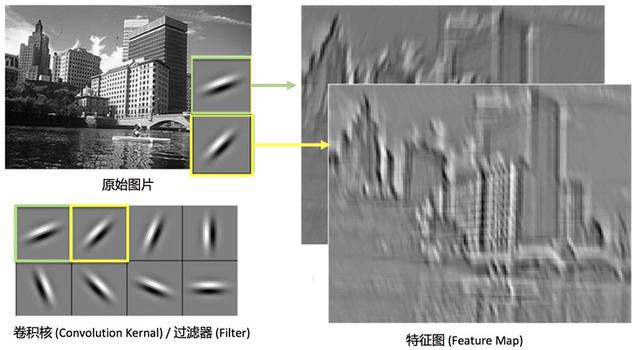
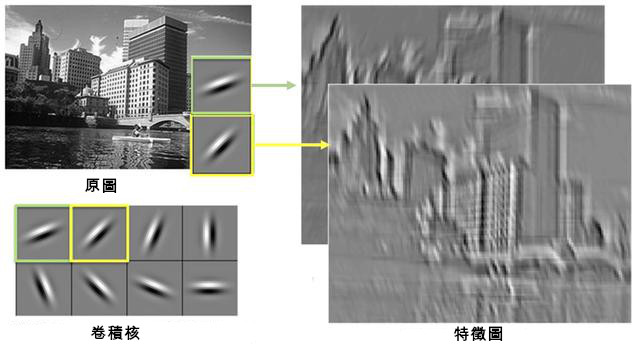
update feature map intro

diff --git a/index_en.html b/index_en.html
@@ -28,10 +28,10 @@
       </div>
     </nav> -->
     <nav class="navbar navbar-inverse fixed-top bg-inverse navbar-expand-md">
-      <a class="navbar-brand" href="./index.html">CNN Visualization</a>
-      <a class="navbar-nav" href="#section1">Introduction</a>
+      <a class="navbar-brand" href="./index.html">cNN Visualization</a>
+      <a class="navbar-nav" href="#section1">Intro</a>
       <a class="navbar-nav" href="#section2">Demo</a>
-      <a class="navbar-nav" href="./index.html">中文版</a>
+      <a class="navbar-nav" href="./index_en.html">中文版</a>
     </nav>
 
     <header class="image-bg-header mt-5">
@@ -40,8 +40,8 @@
         <div class="header-text mx-auto my-auto">
           <h2>CNN Visualization</h2><br/>
           <p>
-            Convolutional Neural Network(or CNN), is a popular deep learning architechture in recent years<br/>
-            This website provides a simple introduction to CNN, and uses multiple visualization methods to demostrate the usage of CCNN
+            Convolutional Neural Network (CNN), is a popular architechture in machine learning.<br/>
+            This website provides a simple introduction to CNN, and uses multiple visualization techniques for viewers to understand its structure.
           </p>
         </div>
         <div></div>
@@ -59,53 +59,73 @@
           <li data-target="#intro-carousel" data-slide-to="1"></li>
           <li data-target="#intro-carousel" data-slide-to="2"></li>
           <li data-target="#intro-carousel" data-slide-to="3"></li>
+          <li data-target="#intro-carousel" data-slide-to="4"></li>
           <!-- <li data-target="#intro-carousel" data-slide-to="2"></li> -->
         </ol>
         <div class="carousel-inner">
           <div class="row justify-content-center carousel-item active">
-            <div class="col-12 col-lg-5 image-block">
-                <img src="images/AI_Intro.png"/>
-            </div>
-            <div class="col-12 col-lg-5 description-block">
-                <h5 class="card-title">1.AI and deep learning</h5>
-                <p>Before understanding CNN, we should better know the difference of three popular words: artificial intelligence, machine learning and deep learning</p>
-                <p>Artificial Intelligence：<br/>AI is the widest topic among the three. It is used to describe machines (or computers) that mimic "cognitive" functions that humans associate with the human mind, such as "learning" and "problem solving".</p>
-                <p>Machine Learning：<br/>Machine Learning is a subset of Artificial Intelligence. Machine learning algorithms build a mathematical model based on sample data, known as "training data", in order to make predictions or decisions without being explicitly programmed to perform the task.</p>
-                <p>Deep Learning：<br/>Deep Learning is a subset of machine learning, which uses more complex(deep) models to learn complex pattern from input data.</p>
-                <p>Neural Network(NN) and Convolutional Neural Network(CNN) are both popular architechtures in deep learning.</p>
-            </div>
-          </div>
-          <div class="row justify-content-center carousel-item">
-            <div class="col-12 col-lg-5 image-block">
-                <img src="images/NN.jpg"/>
-            </div>
-            <div class="col-12 col-lg-5 description-block">
-                <h5 class="card-title">類神經網路</h5>
-                <p>類神經網路（Neural Network，NN）在機器學習和認知科學領域，是一種模仿生物神經網路結構的數學模型或計算模型。</p>
-                <p>類神經網路（Neural Network，NN）在機器學習和認知科學領域，是一種模仿生物神經網路結構的數學模型或計算模型。</p>
-            </div>
-          </div>
-          <div class="row justify-content-center carousel-item">
-            <div class="col-12 col-lg-5 image-block">
+            <div class="col-12 col-lg-4 image-block">
                 <img src="images/vgg19.jpeg"/>
             </div>
-            <div class="col-12 col-lg-5 description-block">
-                <h5 class="card-title">卷積神經網路</h5>
-                <p>Visualize feature/activation maps generated by a CNN model through its learning process.</p>
+            <div class="col-12 col-lg-6 description-block">
+                <h5 class="card-title">1. Basic Concept</h5>
+                <p>In recent days, CNN has played an important role in the field of machine learning, since it has outperformed other neural network in many computer vision tasks.</p>
+                <p>Traditional neural network lacks the ability to learn spatial information in an image. In addition, the dimension of an image is relatively high, so it needs to learn a huge number of parameters and makes its learning process more difficult.</p>
+                <p>In the other hand, CNN uses the concept of "convolution", whcih enables CNN to learn local features inside an image, and combine local features into more complex features through multiple layers of convolution. Convolution also requires less parameters and makes the learning easier.</p>
+                <p>In the following sections, we will use a popular architechture, VGG 19, to explain the basic components of a convolutional neural network: convolution layer, pooling layer and fully connected layer</p>
             </div>
           </div>
           <div class="row justify-content-center carousel-item">
-            <div class="col-12 col-lg-5 image-block">
+            <div class="col-12 col-lg-4 image-block">
+                <img src="images/conv_layer2.gif"/>
+            </div>
+            <div class="col-12 col-lg-6 description-block">
+                <h5 class="card-title">2. Convolutional Layer</h5>
+                <p>Convolutional Layer is the place to execute the convolution operation, and also the most important type of layer in a CNN.</p>
+                <p>A convolutional layer is often formed by many filters, taking the first convolutional layer in VGG19 as an example, it is formed by 64 filters with 3x3 size. These filters will do conolution on each 3x3 area in the input image and output a feature map.</p>
+                <p>什麼是特徵圖呢？每一個卷積核在與輸入的圖片做完卷積運算後，所產生的圖片就是特徵圖。特徵裡的每個值都可以視為某種特徵出現的程度。如果特徵圖裡面的值越大，就代表在原本圖片中對應的位置，出現的特徵越符合卷積核的特徵。</p>
+                <p>要注意的是，因為卷積的運算實際上會讓圖片縮小（舉例來說，3x3的卷積會讓圖片的長跟寬都減少2），所以一般為了維持圖片的大小，在進行卷積前會補零。（還有其他參數例如stride）</p>
+                <p>經過前面的卷積層所產生的特徵圖，會再繼續被送進後面的卷積層做運算，而越後面的卷積層，因為看到了前面小範圍的特徵，就可以學到範圍更大、也更複雜的特徵。藉由這種方法來學習複雜的特徵規律，就是卷積神經網路的特色。</p>
+            </div>
+          </div>
+          <div class="row justify-content-center carousel-item">
+            <div class="col-12 col-lg-4 image-block">
+                <img src="images/pooling.jpeg"/>
+            </div>
+            <div class="col-12 col-lg-6 description-block">
+                <h5 class="card-title">3. Pooling Layer</h5>
+                <p>Pooling layers are often put after the convolutional layers. The main usage of pooling layers is to compress the size of feature maps and preserve the most important information.</p>
+                <p>In Vgg19, 2x2 max pooling layers are used and put after each "block" of convolutional layers.</p>
+                <p>2x2 max pooling preserves the largest value in each 2x2 area of the input feature. This operation preserves the most significant feature locally, and reduces the size of the feature map.</p>
+                <p>Besides max pooling, there are also other pooling methods like average pooling.</p>
+                <p>Although pooling layer has no direct contribution to the accuracy of the CNN, but it help CNN to reduce its size and be trained more effeciently.</p>
+            </div>
+          </div>
+          <div class="row justify-content-center carousel-item">
+            <div class="col-12 col-lg-4 image-block">
+                <img src="images/vgg19.jpeg"/>
+            </div>
+            <div class="col-12 col-lg-6 description-block">
+                <h5 class="card-title">4. Fully Connected Layer</h5>
+                <p>Fully connected layer often appears in the last part of a CNN, and its structure is very similar with traditional neural networks.</p>
+                <p>After multiple layers of convolution and pooling, </p>
+                <p>以VGG19為例，原本輸入的圖片在經過多次捲積以及池化的操作之後，最後會產生出長跟寬都是1的特徵圖（1x1x512）。而背後的意思就是在經過多層的卷積之後，卷積神經網路已經辨認出了512個涵蓋了整張圖片的特徵。這512個特徵不再需要空間的資訊，所以可以當成一個向量，並利用基礎的類神經網路架構，也就是全連接層，來進行最後的預測。</p>
+                <p>全連接層實際的運算相當單純，就是把輸入的向量與卷積神經網路的權重值進行矩陣乘法運算。最後再通過softmax函數，運算的結果就可以拿來做最後的預測。</p>
+                <p>另外值得一題的是，如果我們想把原本訓練好的模型拿去不同的任務使用，一般來說我們不需要重新訓練整個卷積神經網路，因為前面的卷積核所學到的特徵很可能還是有用，只是需要不同的組合方法。所以只需要重新訓練最後面的一兩層卷積層跟全連接層的部分，通常就可以有不錯的結果。</p>
+            </div>
+          </div>
+          <div class="row justify-content-center carousel-item">
+            <div class="col-12 col-lg-4 image-block">
                 <img src="images/AI_Logo.gif"/>
             </div>
-            <div class="col-12 col-lg-5 description-block">
-                <h5 class="card-title">了解更多</h5>
-                <p>想更深入了解卷積神經網路、或其他深度學習技術的話，可以參考下列網址：</p>
-                <a target="_blank" href="https://www.youtube.com/watch?v=nQvpFSMPhr0&list=PLXVfgk9fNX2I7tB6oIINGBmW50rrmFTqf">林軒田 - 機器學習基石</a><br/>
-                <a target="_blank" href="https://www.youtube.com/watch?v=A-GxGCCAIrg&list=PLXVfgk9fNX2IQOYPmqjqWsNUFl2kpk1U2">林軒田 - 機器學習技法</a><br/>
-                <a target="_blank" href="https://www.youtube.com/watch?v=CXgbekl66jc&list=PLJV_el3uVTsPy9oCRY30oBPNLCo89yu49">李宏毅 - Machine Learning</a><br/>
-                <a target="_blank" href="https://www.youtube.com/watch?v=jqLidqLZbA8&list=PLS0SUwlYe8cyFuMXAXIB1f5-BggwpVGG_">吳尚鴻 - 深度學習</a><br/>
-                <a target="_blank" href="http://cs231n.stanford.edu/">史丹佛大學 - CS231n</a>
+            <div class="col-12 col-lg-6 description-block">
+                <h5 class="card-title">5. Further Study</h5>
+                <p>For further study in machine learning/deep learning, visit following links:</p>
+                <a target="_blank" href="https://www.youtube.com/watch?v=nQvpFSMPhr0&list=PLXVfgk9fNX2I7tB6oIINGBmW50rrmFTqf">Prof. Lin - Foundation of Machine Learning</a><br/>
+                <a target="_blank" href="https://www.youtube.com/watch?v=A-GxGCCAIrg&list=PLXVfgk9fNX2IQOYPmqjqWsNUFl2kpk1U2">Prof. Lin - Techniques of Machine Learning</a><br/>
+                <a target="_blank" href="https://www.youtube.com/watch?v=CXgbekl66jc&list=PLJV_el3uVTsPy9oCRY30oBPNLCo89yu49">Prof. Lee - Machine Learning</a><br/>
+                <a target="_blank" href="https://www.youtube.com/watch?v=jqLidqLZbA8&list=PLS0SUwlYe8cyFuMXAXIB1f5-BggwpVGG_">Prof. Wu - Deep Learning</a><br/>
+                <a target="_blank" href="http://cs231n.stanford.edu/">Stanford University - CS231n</a>
             </div>
           </div>
         </div>
@@ -126,56 +146,56 @@
         <hr>
       </div>
       <div class="row">
-        <div class="col-12 col-lg-4">
-          <div class="card" style="width: 20rem;">
-            <img class="card-img-top img-fluid" src="./images/StarryNight.jpg" alt="Card image cap">
-            <div class="card-block">
+        <div class="col-9 col-lg-3">
+          <div class="card my-card">
+            <img class="card-img-top img-fluid" src="./images/demo1.png" alt="Card image cap">
+            <div class="card-block d-flex flex-column">
               <h5 class="card-title">Style Transfer</h5>
-              <p class="card-text">Use CNN to combine the content and style from two different images.</p>
-              <a href="./method1.html" class="btn btn-primary">Demo »</a>
+              <p class="card-text">Combine the content and the style from two different images</p>
+              <a href="./method1.html" class="btn btn-primary mt-auto">Demo »</a>
             </div>
           </div>
         </div>
-        <div class="col-12 col-lg-4">
-          <div class="card" style="width: 20rem;">
-            <img class="card-img-top img-fluid" src="./images/feature_map_mnist.png" alt="Card image cap">
-            <div class="card-block">
+        <div class="col-9 col-lg-3">
+          <div class="card my-card">x
+            <img class="card-img-top img-fluid" src="./images/demo2.png" alt="Card image cap">
+            <div class="card-block d-flex flex-column">
               <h5 class="card-title">Feature Map</h5>
-              <p class="card-text">Visualize feature maps generated by a CNN model through its learning process.</p>
-              <a href="./method2.html" class="btn btn-primary">Demo »</a>
+              <p class="card-text">Understanding the structure and the process of learning through visualizing feature map</p>
+              <a href="./method2.html" class="btn btn-primary mt-auto">Demo »</a>
             </div>
           </div>
         </div>
-        <div class="col-12 col-lg-4">
-          <div class="card" style="width: 20rem;">
+        <div class="col-9 col-lg-3">
+          <div class="card my-card">
+            <img class="card-img-top img-fluid" src="./images/demo3.png" alt="Card image cap">
+            <div class="card-block d-flex flex-column">
+              <h5 class="card-title">Deconvolution</h5>
+              <p class="card-text">By deconvolution, we can see the pattern learned by CNN</p>
+              <a href="./method3.html" class="btn btn-primary mt-auto">Demo »</a>
+            </div>
+          </div>
+        </div>
+        <div class="col-9 col-lg-3">
+          <div class="card my-card">
+            <img class="card-img-top img-fluid" src="./images/demo4.png" alt="Card image cap">
+            <div class="card-block d-flex flex-column">
+              <h5 class="card-title">Guided Backpropogation</h5>
+              <p class="card-text"></p>
+              <a href="./method4.html" class="btn btn-primary mt-auto">Demo »</a>
+            </div>
+          </div>
+        </div>
+        <!-- <div class="col-12 col-lg-4"> -->
+          <!-- <div class="card" style="width: 20rem;">
             <img class="card-img-top img-fluid" src="./images/deconv.png" alt="Card image cap">
             <div class="card-block">
-              <h5 class="card-title">Deconvolution</h5>
+              <h5 class="card-title">(Occlusion)</h5>
               <p class="card-text">Use deconvolution to visualize the pattern which the model focused on.</p>
-              <a href="./method3.html" class="btn btn-primary">Demo »</a>
+              <a href="./method5.html" class="btn btn-primary">Demo »</a>
             </div>
-          </div>
-        </div>
-        <div class="col-12 col-lg-4">
-          <div class="card" style="width: 20rem;">
-            <img class="card-img-top img-fluid" src="./images/deconv.png" alt="Card image cap">
-            <div class="card-block">
-              <h5 class="card-title">Deconvolution</h5>
-              <p class="card-text">Use deconvolution to visualize the pattern which the model focused on.</p>
-              <a href="./method3.html" class="btn btn-primary">Demo »</a>
-            </div>
-          </div>
-        </div>
-        <div class="col-12 col-lg-4">
-          <div class="card" style="width: 20rem;">
-            <img class="card-img-top img-fluid" src="./images/deconv.png" alt="Card image cap">
-            <div class="card-block">
-              <h5 class="card-title">Deconvolution</h5>
-              <p class="card-text">Use deconvolution to visualize the pattern which the model focused on.</p>
-              <a href="./method3.html" class="btn btn-primary">Demo »</a>
-            </div>
-          </div>
-        </div>
+          </div> -->
+        <!-- </div> -->
       </div>
         
       <!-- START THE FEATURETTES -->

diff --git a/method1.html b/method1.html
@@ -74,7 +74,7 @@
 
     <div class="d-flex flex-column justify-content-between demo-intro">
       <h3>說明</h3>
-      <div id="method1-carousel" class="carousel slide flex-grow-1" data-ride="carousel" style="padding-bottom: 3rem;">
+      <div id="method1-carousel" class="carousel slide flex-grow-1" data-ride="carousel" style="padding-bottom: 3rem;" data-interval="false">
         <ol class="carousel-indicators">
           <li data-target="#method1-carousel" data-slide-to="0" class="active"></li>
           <li data-target="#method1-carousel" data-slide-to="1"></li>
@@ -86,8 +86,9 @@
             <div class="col-10 justify-content-center" style="text-align: left;">
                 <h5>1. 風格轉換簡介</h5>
                 <p>風格變換的概念，就是把兩張圖片結合在一起，同時保留一張圖片的內容與另一張圖片的風格。這個任務的重點就在於如何找出圖片裡的風格與內容分別是什麼，而這個問題剛好可以用卷積神經網路來解決。</p>
-                <p>假設有一張內容圖Ａ，一張風格圖Ｂ，而我們想要產生一張圖片Ｃ結合Ａ的內容與Ｂ的風格。基本的風格變換的做法，是首先把圖Ｃ設成跟Ａ同一張圖，接著在盡量保留A內容的前提下逐步加入圖Ｂ的風格，進行多次運算後就可以得到一張風格變換後的圖片了。</p>
-                <div class="row justify-content-center" ><img src="images/style_transfer1.png" height="240px"/></div>
+                <div class="row justify-content-center my-4" ><img src="images/style_transfer_01.png" height="240px"/></div>
+                <p>假設有一張內容圖Ａ，一張風格圖Ｂ，而我們想要產生一張圖片Ｃ結合Ａ的內容與Ｂ的風格。基本的風格變換採用迭代的做法，先把圖Ｃ設成跟內容的Ａ同一張圖，接著在盡量保留A內容的前提下逐步加入圖Ｂ的風格，進行多次運算後，就可以得到一張風格變換的圖片。</p>
+                <div class="row justify-content-center my-4" ><img src="images/style_transfer_02.png" height="240px"/></div>
                 <p>我們可以透過卷積神經網路來取得Ａ的內容跟Ｂ的風格。更具體的作法會在後面說明。</p>
             </div>
           </div>
@@ -96,9 +97,8 @@
                 <h5>2. 使用VGG 19提取圖片內容與風格</h5>
                 <p>那麼，要如何用卷積神經網路來取得圖片的內容跟風格呢？一個很簡單卻有效的方法，就是把卷積神經網路中間所產生的特徵圖拿來使用。</p>
                 <p>以VGG19來說，一個常見的設定是把 block5_conv2（第五層的第二個卷積層）的輸出作為圖片的內容，而圖片的風格則會結合 block1_conv1, block2_conv1, block3_conv1, block4_conv1, block5_conv1 （一到五層的第一個卷積層）的輸出來產生。</p>
-                <div class="row justify-content-center" ><img src="images/style_transfer2.png" height="320px"/></div>
-                <p>為什麼會這樣設定呢？如果比較簡單的方法來解釋的話，我們知道卷積神經網路在前面的卷積層裡學到的是一些簡單的特徵（例如特定的線條或形狀），而後面的卷積層則會學到比較複雜的特徵（例如臉或五官）。加上大部分的卷積神經網路在預訓練的時候都是要分辨圖片的內容（例如VGG19就是訓練在ImageNet資料集上的分類任務），所以越後面的層數學捯的東西跟內容會越相關也是很自然的結果。</p>
-                <p>至於為什麼不用最後一層的block5_conv4來作為內容，可能是因為到了最後面的維度已經被壓縮的太小，所以反而會損失一些資訊。例如VGG19的最後一層可能就只會學到ImageNet裡面的1000個分類的內容，如果你的圖片不屬於其中的分類的話可能模型就無法正確的分辨內容。選擇稍微前面一點的特徵圖可以保留多一點資訊，並且跟內容還是有一定的相關性。</p>
+                <div class="row justify-content-center my-4" ><img src="images/style_transfer2.png" height="320px"/></div>
+                <p>為什麼會這樣設定呢？如果比較簡單的方法來解釋的話，我們知道卷積神經網路在前面的卷積層裡學到的是一些簡單的特徵（例如特定的線條或形狀），而後面的卷積層則會學到比較複雜的特徵（例如臉或五官）。加上大部分的卷積神經網路在預訓練的時候都是要分辨圖片的內容（例如VGG19就是訓練在ImageNet資料集上的分類任務），所以越深層的卷積層所學到的東西跟內容會越相關也是很自然的結果。</p>
                 <p>至於風格的部分，其實風格是一個相對很難定義的東西，有時候風格會是小規模的一些筆觸或規律，有時候又會跟圖片整體的配色或構圖有關。所以一般在做風格變換時，會看多個從淺層到深層的特徵圖，來決定圖片的風格。</p>
                 <p>要在保留A圖內容的狀態下加入B圖的風格，我們會透過前面選擇的這些特徵圖來定義兩個損失函數：內容損失函數與風格損失函數，並在風格轉換的過程中試著最小化這個損失函數的輸出，接下來我們會看看如何透過這些特徵圖來定義損失函數。</p>
             </div>
@@ -108,11 +108,11 @@
                 <h5>3. 損失函數與最佳化</h5>
                 <p>這裡說明一下內容損失函數與風格損失函數要怎麼定義。</p>
                 <p>首先是內容損失函數。這部分其實相當簡單，就是兩張特徵圖的平方差的總和再乘以二分之一。公式如下：</p>
-                <div class="row justify-content-center" ><img src="images/content_loss.png" height="40px"/></div>
+                <div class="row justify-content-center my-4" ><img src="images/content_loss.png" height="40px"/></div>
                 <p>接著是風格損失函數的部分，這裡的式子就會稍微複雜一些。為了描述圖片中的風格，這裡使用了一種叫做Gram Matrix的矩陣，簡單的說，每一層卷積層所產生的多個特徵圖，可以透過特徵圖之間兩兩的內積來產生Gram Matrix。在兩兩內積的過程中，比較小的值會變得更小而原本比較大的值會被放大，同時Gram Matrix也保留了不同特徵圖之間的關聯性。從實務上來說，使用Gram Matrix也確實可以有效的找出圖片的風格。</p>
-                <div class="row justify-content-center" ><img src="images/style_loss.png" height="40px"/></div>
+                <div class="row justify-content-center my-4" ><img src="images/style_loss.png" height="40px"/></div>
                 <br/>
-                <div class="row justify-content-center" ><img src="images/style_loss2.png" height="40px"/></div>
+                <div class="row justify-content-center my-4" ><img src="images/style_loss2.png" height="40px"/></div>
                 <p>計算完這兩個損失函數之後，接著就可以透過不斷迭代梯度下降演算法來減低這兩個損失函數的總和，來達到風格轉換的效果了。</p>
             </div>
           </div>
@@ -120,7 +120,11 @@
             <div class="col-10 justify-content-center" style="text-align: left;">
                 <h5>4. 使用AdaIn加速運算</h5>
                 <p>前面介紹了風格轉換最基本的作法。不過這種做法有一個最大的問題，就是在每一張圖進行風格轉換時都需要進行多次迭代的計算，而計算中又有不少矩陣的運算，導致要產生一張圖可能就需要花上一段時間。也因此，在本網站的展示中，我們沒有使用傳統的方式，而是使用另一個名為AdaIn的架構來加速風格轉換的過程。</p>
-                <img src="images/Adain.jpg" height="150px"/>
+                <div class="row justify-content-center my-4" ><img src="images/Adain.jpg" height="150px"/></div>
+                <p>和前面介紹的傳統作法相比，AdaIn主要有兩個不同的地方：</p>
+                <p>第一點是在取得圖片的內容跟風格的部分，比起傳統使用特徵圖來計算損失的方法，AdaIn採用更簡單的方式：直接把特徵圖裡面值的平均當作內容，而變異數當作風格，這樣避免了Gram Matrix的複雜計算，只要在維持平均值的狀態下改動變異數就可以做到風格轉換的效果。</p>
+                <p>而為了更有效率的做到這一點，AdaIn的另一個改動就是除了原本用到的VGG19模型之外，另外多了兩個類神經網路：分別是AdaIn與Decoder。透過這兩個類神經網路，AdaIn能夠讓原本特徵圖的風格（也就是變異數）轉換到另一張圖片，之後藉由Decoder，就可以直接從轉換後的特徵圖生成出一張風格轉換後的圖片。</p>
+                <p>AdaIn最大的好處，就是避免了傳統風格轉換所需要的多次迭代計算，整個過程只要一步就可以完成。雖然多出來的兩個網路需要另外花時間訓練，但一旦訓練好仍可以節省大量運算的時間。</p>
             </div>
           </div>
         </div>

diff --git a/method2.html b/method2.html
@@ -77,20 +77,32 @@
               <div class="col-10" style="text-align: left;">
                   <h5>1. 特徵圖簡介</h5>
                   <p>卷積神經網路在運算的過程中，每經過一次卷積層的運算都會產生出新的特徵圖。</p>
-                  <p>以VGG19為例，一開始輸入的圖片會被縮放到常跟寬都等於224，而且因為有紅藍綠三個顏色的通道，所以總共的維度是224x224x3。</p>
-                  <p>224x224x3的圖片在通過第一層的捲積層後，會變成224x224x64。這是因為第一層的卷積層有64個捲積核，而每個卷積核都會學到一種特徵並輸出一張特徵圖。</p>
+                  <p>以VGG19為例，一開始輸入的圖片會被縮放到常跟寬都等於224，而且因為有紅藍綠三個顏色的通道，所以總共的維度是224x224x3。而這個224x224x3的圖片在通過第一層的捲積層後，維度會變成224x224x64，也就是64張224x224的特徵圖。這是因為第一層的卷積層有64個捲積核，而每個卷積核都會學到一種特徵並輸出一張特徵圖。</p>
                   <p>透過視覺化這些特徵圖，我們可以大致了解到卷積神經網路學習了哪些不同的特徵。</p>
-                  <div class="row justify-content-center" ><img src="images/feature_map.jpg" height="320px"/></div>
+                  <div class="row justify-content-center my-4" ><img src="images/feature_map2.jpg" height="320px"/></div>
               </div>
             </div>
             <div class="row justify-content-center carousel-item flex-grow-1">
               <div class="col-10" style="text-align: left;">
-                  <h5>1. 特徵圖簡介</h5>
-                  <p>卷積神經網路在運算的過程中，每經過一次卷積層的運算都會產生出新的特徵圖。</p>
-                  <p>以VGG19為例，一開始輸入的圖片會被縮放到常跟寬都等於224，而且因為有紅藍綠三個顏色的通道，所以總共的維度是224x224x3。</p>
-                  <p>224x224x3的圖片在通過第一層的捲積層後，會變成224x224x64。這是因為第一層的卷積層有64個捲積核，而每個卷積核都會學到一種特徵並輸出一張特徵圖。</p>
-                  <p>透過視覺化這些特徵圖，我們可以大致了解到卷積神經網路學習了哪些不同的特徵。</p>
-                  <div class="row justify-content-center" ><img src="images/feature_map.jpg" height="320px"/></div>
+                  <h5>2. 如何解讀特徵圖 </h5>
+                  <p>這裡簡單說明一下，要如何透過這些特徵圖來看出卷積神經網路學到了哪些特徵。</p>
+                  <p>卷積神經網路所學到的特徵，其實就是由卷積層中的各個卷積核所代表。透過觀察卷積層中，輸入圖片與輸出的特徵圖之間的差異，我們可以大概了解到該卷積核學到了什麼樣的特徵。</p>
+                  <p>以VGG19的第一層卷積層為例，我們可以看看下圖的例子，從左到右分別是原圖、卷積核與輸出的特徵圖：</p>
+                  <div class="row justify-content-center my-4" ><img src="images/feature_map_example_1.png" height="320px"/></div>
+                  <p>可以看到第一個卷積核學到的是類似斜線的特徵，而第二個則是水平線。因此在對應的兩張特徵圖中，第一個特徵圖在斜線的地方比較亮（值比較大），而第二個特徵圖在水平線的部分比較亮。</p>
+                  <p>除此之外，卷積核也會學到和顏色相關的特徵：</p>
+                  <div class="row justify-content-center my-4" ><img src="images/feature_map_example_2.png" height="160px"/></div>
+                  <p>在上面的例子，卷積核學到的特徵偏重綠色，因此所產生的特徵圖，也只有在綠色的部分會比較亮。</p>
+                  <p>需要注意的是，這裡的卷積核是為了方便理解，使用另一種視覺化方式來表現的。而真正的卷積核是一個3x3x3的矩陣。</p>
+              </div>
+            </div>
+            <div class="row justify-content-center carousel-item flex-grow-1">
+              <div class="col-10" style="text-align: left;">
+                  <h5>3. 不同深度的特徵圖 </h5>
+                  <p>在VGG19中，卷積層總共被分為五個區塊（block1~block5），而每個區塊的最後都會有池化層來壓縮圖片資訊。</p>
+                  <p>經過池化的壓縮之後，特徵圖的維度也會跟著變小。也因此，越深層的特徵圖其維度（長跟寬）也會越小，不過相對的，特徵圖的每個值代表的特徵也越複雜。我們可以從下圖看到特徵圖從淺層到深層的變化：</p>
+                  <div class="row justify-content-center my-4" ><img src="images/feature_map_example_3.png" height="400px"/></div>
+                  <p>我們可以看到，越深層的特徵圖視覺化看起來的結果會越模糊，光用肉眼也比較難看出特徵圖代表的特徵意義。也因此，本網站目前只用比較淺的卷積層來進行特徵圖的視覺化。如果想要了解比較深層的卷積層所學到的特徵，可以搭配卷積核視覺化的方法來觀察卷積核所學到的特徵；或者試試看另一種視覺化方法：反卷積。</p>
               </div>
             </div>
           </div>

diff --git a/index.html b/index.html
@@ -83,9 +83,9 @@
                 <h5 class="card-title">2. 卷積層</h5>
                 <p>卷積層顧名思義，就是進行卷積運算的地方，也是卷積神經網路之中，最重要的構造。</p>
                 <p>一個卷積層通常由多個卷積核（也叫過濾器）所組成，以VGG19的第一個卷積層為例，它就是由64個大小為3x3的卷積核所組成的。（這裏的3x3指的是長跟寬，因為彩色圖片有紅綠藍三個顏色的通道，實際上的維度是3x3x3）。在這裏，每個3x3的卷積核都代表了在3x3的範圍裡的一個局部特徵，然後這些卷積核會逐步掃過整張圖片，並產生出對應的特徵圖。</p>
-                <p>什麼是特徵圖呢？每一個卷積核在與輸入的圖片做完卷積運算後，所產生的圖片就是特徵圖。特徵裡的每個值都可以視為某種特徵出現的程度。如果特徵圖裡面的值越大，就代表在原本圖片中對應的位置，出現的特徵越符合卷積核的特徵。</p>
-                <p>要注意的是，因為卷積的運算實際上會讓圖片縮小（舉例來說，3x3的卷積會讓圖片的長跟寬都減少2），所以一般為了維持圖片的大小，在進行卷積前會補零。（還有其他參數例如stride）</p>
-                <p>經過前面的卷積層所產生的特徵圖，會再繼續被送進後面的卷積層做運算，而越後面的卷積層，因為看到了前面小範圍的特徵，就可以學到範圍更大、也更複雜的特徵。藉由這種方法來學習複雜的特徵規律，就是卷積神經網路的特色。</p>
+                <p>什麼是特徵圖呢？每一個卷積核在與輸入的圖片做完卷積運算後，所產生的圖片就是特徵圖。特徵裡的每個值都可以視為某種特徵出現的程度。如果特徵圖裡面的值越大，就代表在原本圖片中，對應位置的特徵越符合卷積核所學到的特徵。</p>
+                <p>要注意的是，因為卷積的運算實際上會讓圖片縮小（舉例來說，3x3的卷積會讓圖片的長跟寬都減少2），所以一般為了維持圖片的大小，在進行卷積前會在邊緣的地方補零再進行運算。</p>
+                <p>而經過卷積層所產生的特徵圖，還會再繼續被送進後面的卷積層做運算，而越後面的卷積層，因為看到了前面小範圍的特徵，就可以學到範圍更大、也更複雜的特徵。藉由這種方法來學習複雜的特徵規律，就是卷積神經網路的特色。</p>
             </div>
           </div>
           <div class="row justify-content-center carousel-item">
@@ -107,9 +107,9 @@
             <div class="col-12 col-lg-6 description-block">
                 <h5 class="card-title">4. 全連接層</h5>
                 <p>全聯接層，實際上的構造類似一般的類神經網路，它通常會出現在卷積神經網路最後面的架構。</p>
-                <p>以VGG19為例，原本輸入的圖片在經過多次捲積以及池化的操作之後，最後會產生出長跟寬都是1的特徵圖（1x1x512）。而背後的意思就是在經過多層的卷積之後，卷積神經網路已經辨認出了512個涵蓋了整張圖片的特徵。這512個特徵不再需要空間的資訊，所以可以當成一個向量，並利用基礎的類神經網路架構，也就是全連接層，來進行最後的預測。</p>
-                <p>全連接層實際的運算相當單純，就是把輸入的向量與卷積神經網路的權重值進行矩陣乘法運算。最後再通過softmax函數，運算的結果就可以拿來做最後的預測。</p>
-                <p>另外值得一題的是，如果我們想把原本訓練好的模型拿去不同的任務使用，一般來說我們不需要重新訓練整個卷積神經網路，因為前面的卷積核所學到的特徵很可能還是有用，只是需要不同的組合方法。所以只需要重新訓練最後面的一兩層卷積層跟全連接層的部分，通常就可以有不錯的結果。</p>
+                <p>以VGG19為例，原本輸入的圖片在經過多次捲積以及池化的操作之後，最後會產生出長跟寬為7的特徵圖（7x7x512）。而背後的意思就是在經過多層的卷積之後，卷積神經網路已經辨認出了512個大範圍的特徵。這時候空間的相對位置已經沒那麼重要，所以可以把特徵圖直接當成一個向量，並利用基本的類神經網路架構，也就是全連接層，來進行最後的預測。</p>
+                <p>全連接層實際的運算相當單純，就是把輸入的向量與卷積神經網路的權重值進行矩陣乘法運算。最後再通過softmax函數運算的結果。</p>
+                <p>值得一題的是，如果我們想把原本訓練好的模型拿去不同的任務使用，一般來說我們不需要重新訓練整個卷積神經網路，因為前面的卷積核層學到的特徵很可能還是有用。這時候只需要重新訓練最後面一部份的卷積層跟全連接層的部分，通常就可以有不錯的結果。</p>
             </div>
           </div>
           <div class="row justify-content-center carousel-item">

diff --git a/css/method1.css b/css/method1.css
@@ -85,7 +85,6 @@ hr {
     filter: invert(25%);
 }
 
-
 .carousel .carousel-indicators li {
     background-color: rgba(120, 120, 120, 0.25);
 }
@@ -189,9 +188,9 @@ hr {
 }
 
 .demo-intro {
-    background: url('../images/shattered-island.gif') center center scroll;
+    background: url('../images/hexellence.png') center center scroll;
     min-height: 400px;
-    color: white;
+    color: black;
     padding: 1.2rem;
     display: flex;
     justify-content: center;
@@ -209,5 +208,5 @@ footer{
 #method1-carousel {
     margin-top: 1.5rem;
     min-height: 160px;
-    color: white;
+    color: black;
 }
